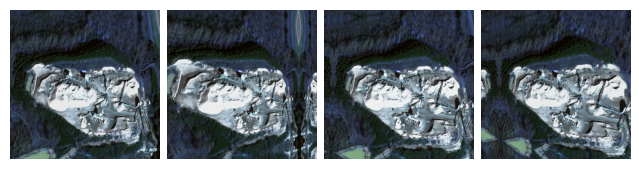
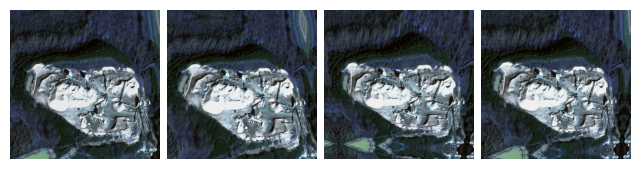
quarto render

diff --git a/docs/demo.html b/docs/demo.html
@@ -184,7 +184,7 @@ pre > code.sourceCode > span > a:first-child::before { text-decoration: underlin
 
 </header>
 
-<p><a href="https://arxiv.org/abs/%3CINDEX%3E"><img src="https://img.shields.io/badge/arXiv-%3CINDEX%3E-%3CCOLOR%3E.svg" class="img-fluid" alt="arXiv"></a> <a href="https://github.com/Andrewwango/perspective-equivariant-imaging"><img src="https://img.shields.io/badge/GitHub-100000?style=for-the-badge&amp;logo=github&amp;logoColor=white.png" class="img-fluid" alt="GitHub"></a> <a href="https://andrewwango.github.io/perspective-equivariant-imaging">Webpage</a> | <a href="./demo.html">Notebook</a></p>
+<p><a href="https://arxiv.org/abs/%3CINDEX%3E"><img src="https://img.shields.io/badge/arXiv-%3CINDEX%3E-%3CCOLOR%3E.svg" class="img-fluid" alt="arXiv"></a> <a href="https://github.com/Andrewwango/perspective-equivariant-imaging"><img src="https://img.shields.io/badge/GitHub-100000?style=for-the-badge&amp;logo=github&amp;logoColor=white.png" class="img-fluid" alt="GitHub"></a> <a href="https://andrewwango.github.io/perspective-equivariant-imaging">Demo webpage</a> | <a href="./demo.html">Demo notebook</a></p>
 <p><strong>Authors</strong>: Andrew Wang, Mike Davies, School of Engineering, University of Edinburgh</p>
 <p><strong>Abstract</strong>: Ill-posed image reconstruction problems appear in many scenarios such as remote sensing, where obtaining high quality images is crucial for environmental monitoring, disaster management and urban planning. Deep learning has seen great success in overcoming the limitations of traditional methods. However, these inverse problems rarely come with ground truth data, highlighting the importance of unsupervised learning from partial and noisy measurements alone. We propose <em>perspective-equivariant imaging</em> (EI), a framework that leverages perspective variability in optical camera-based imaging systems, such as satellites or handheld cameras, to recover information lost in ill-posed optical camera imaging problems. This extends previous EI work to include a much richer non-linear class of group transforms and is shown to be an excellent prior for satellite and urban image data, where perspective-EI achieves state-of-the-art results in multispectral pansharpening, outperforming other unsupervised methods in the literature.</p>
 <p><strong>Citation</strong></p>
@@ -209,7 +209,7 @@ pre > code.sourceCode > span > a:first-child::before { text-decoration: underlin
 <h3 class="anchored" data-anchor-id="multispectral-pansharpening">2.1 Multispectral pansharpening</h3>
 <p>The pansharpening inverse problem seeks to recover high-resolution multispectral (HRMS) images <span class="math inline">\(x\)</span> from low-resolution multispectral (LRMS) <span class="math inline">\(\mathbf{y}_\text{MS}\)</span> and high-resolution panchromatic (single-band) <span class="math inline">\(\mathbf{y}_\text{pan}\)</span> images. The forward operator is:</p>
 <p><span class="math display">\[\left\{\mathbf{y}_\text{MS},\mathbf{y}_\text{PAN}\right\}\sim\mathcal{P}\left(\mathbf{A}_\text{PS}\mathbf{x}\right)=\left\{\mathcal{P}\left(\mathbf{A}_\text{SR}\mathbf{x}\right),\mathcal{P}\left(\mathbf{R}_\text{PAN}\mathbf{x}\right)\right\}\]</span></p>
-<p>where <span class="math inline">\(\mathbf{R}_\text{PAN}\)</span> is the pan channel’s SRF, <span class="math inline">\(\mathbf{A}_\text{SR}\mathbf{x}=(\mathbf{k} * \mathbf{x}) \downarrow_j\)</span> is the <span class="math inline">\(j\times j\)</span>-factor downsampling operator with anti-aliasing kernel <span class="math inline">\(\mathbf{k}\)</span>, and <span class="math inline">\(\mathcal{P}\)</span> is the Poisson noise operator. We simulate a tiny dataset of WorldView-2 tiles taken from <a href="https://spacenet.ai/off-nadir-building-detection/">SpaceNet-4</a>:</p>
+<p>where <span class="math inline">\(\mathbf{R}_\text{PAN}\)</span> is the pan channel’s SRF, <span class="math inline">\(\mathbf{A}_\text{SR}\mathbf{x}=(\mathbf{k} * \mathbf{x}) \downarrow_j\)</span> is the <span class="math inline">\(j\times j\)</span>-factor downsampling operator with anti-aliasing kernel <span class="math inline">\(\mathbf{k}\)</span>, and <span class="math inline">\(\mathcal{P}\)</span> is the Poisson noise operator. We simulate a tiny dataset of WorldView-2 tiles taken from <a href="https://spacenet.ai/off-nadir-building-detection/">SpaceNet-4</a> (see <a href="data/spacenet/vis/">vis</a>):</p>
 <div class="cell" data-execution_count="3">
 <div class="sourceCode cell-code" id="cb3"><pre class="sourceCode python code-with-copy"><code class="sourceCode python"><span id="cb3-1"><a href="#cb3-1" aria-hidden="true" tabindex="-1"></a>dataset_name <span class="op">=</span> <span class="st">"spacenet"</span></span>
 <span id="cb3-2"><a href="#cb3-2" aria-hidden="true" tabindex="-1"></a>noise_gain <span class="op">=</span> <span class="fl">0.</span></span>
@@ -225,9 +225,10 @@ pre > code.sourceCode > span > a:first-child::before { text-decoration: underlin
 <div class="cell" data-execution_count="5">
 <div class="sourceCode cell-code" id="cb5"><pre class="sourceCode python code-with-copy"><code class="sourceCode python"><span id="cb5-1"><a href="#cb5-1" aria-hidden="true" tabindex="-1"></a>train_dataloader, test_dataloader <span class="op">=</span> make_dataloaders(dataset_name, physics, device<span class="op">=</span>device)</span></code><button title="Copy to Clipboard" class="code-copy-button"><i class="bi"></i></button></pre></div>
 </div>
-<div class="cell" data-execution_count="6">
+<div class="cell" data-execution_count="8">
 <div class="sourceCode cell-code" id="cb6"><pre class="sourceCode python code-with-copy"><code class="sourceCode python"><span id="cb6-1"><a href="#cb6-1" aria-hidden="true" tabindex="-1"></a>x, y <span class="op">=</span> <span class="bu">next</span>(<span class="bu">iter</span>(test_dataloader))</span>
-<span id="cb6-2"><a href="#cb6-2" aria-hidden="true" tabindex="-1"></a>plot_multispectral(x, y)</span></code><button title="Copy to Clipboard" class="code-copy-button"><i class="bi"></i></button></pre></div>
+<span id="cb6-2"><a href="#cb6-2" aria-hidden="true" tabindex="-1"></a>x, y <span class="op">=</span> x.to(device), y.to(device)</span>
+<span id="cb6-3"><a href="#cb6-3" aria-hidden="true" tabindex="-1"></a>plot_multispectral(x, y)</span></code><button title="Copy to Clipboard" class="code-copy-button"><i class="bi"></i></button></pre></div>
 <div class="cell-output cell-output-display">
 <p><img src="demo_files/figure-html/cell-7-output-1.png" class="img-fluid"></p>
 </div>
@@ -237,7 +238,7 @@ pre > code.sourceCode > span > a:first-child::before { text-decoration: underlin
 <h3 class="anchored" data-anchor-id="projective-transformations">2.2 Projective transformations</h3>
 <p>Camera-based imaging systems move and rotate freely in the world. In satellite imaging, scenes are generally imaged off-nadir, i.e.&nbsp;the focal line does not pass through the Earth point located vertically below, resulting in a perspective distortion.</p>
 <p>Our proposed perspective-EI uses the natural belief that unknown image sets are invariant to changes in perspective to solve these inverse problems without ground truth (GT), by considering the group of non-linear projective transformations <span class="math inline">\(\mathbf{T}_g\)</span>. Note that we <strong>do not have</strong> access to the GT images <span class="math inline">\(x\)</span>, we just show these for demonstration:</p>
-<div class="cell" data-execution_count="12">
+<div class="cell" data-execution_count="9">
 <div class="sourceCode cell-code" id="cb7"><pre class="sourceCode python code-with-copy"><code class="sourceCode python"><span id="cb7-1"><a href="#cb7-1" aria-hidden="true" tabindex="-1"></a>transform <span class="op">=</span> Homography(</span>
 <span id="cb7-2"><a href="#cb7-2" aria-hidden="true" tabindex="-1"></a>    n_trans <span class="op">=</span> <span class="dv">1</span>, </span>
 <span id="cb7-3"><a href="#cb7-3" aria-hidden="true" tabindex="-1"></a>    theta_max <span class="op">=</span> <span class="dv">5</span>, <span class="co">#degrees </span></span>
@@ -259,11 +260,11 @@ pre > code.sourceCode > span > a:first-child::before { text-decoration: underlin
 <section id="perspective-equivariant-imaging" class="level3">
 <h3 class="anchored" data-anchor-id="perspective-equivariant-imaging">2.3 Perspective-equivariant imaging</h3>
 <p>The EI framework learns to invert from measurements <span class="math inline">\(y\)</span> alone:</p>
-<p><img src="img/diag_EI.jpg" width="30%"></p>
+<p><img src="img/diag_EI.jpg" width="50%"></p>
 <p>Our proposed loss function adds perspective-EI onto a spectral and structural measurement consistency (MC) loss:</p>
 <p><span class="math display">\[\mathcal{L}_\text{unsup}(\theta;\mathbf{y},g)=\lVert\mathbf{A}f_\theta(\mathbf{y})-\mathbf{y}_\text{MS}\rVert_2^2+\lVert \mathbf{R}_\text{pan}f_\theta(\mathbf{y})-\mathbf{y}_\text{pan}\rVert_\text{TV}+\mathcal{L}_\text{EI}(\theta;\mathbf{y},g)\]</span></p>
-<p>In the noisy scenario, both the spectral and structural MC losses are replaced by SURE losses.</p>
-<div class="cell" data-execution_count="23">
+<p>In the noisy scenario, both the spectral and structural MC losses are replaced by SURE losses. We assume a flat <span class="math inline">\(\mathbf{R}_\text{pan}\)</span> that simply averages the channels.</p>
+<div class="cell" data-execution_count="10">
 <div class="sourceCode cell-code" id="cb8"><pre class="sourceCode python code-with-copy"><code class="sourceCode python"><span id="cb8-1"><a href="#cb8-1" aria-hidden="true" tabindex="-1"></a><span class="cf">if</span> noise_gain <span class="op">&gt;</span> <span class="dv">0</span>:</span>
 <span id="cb8-2"><a href="#cb8-2" aria-hidden="true" tabindex="-1"></a>    loss_spectral   <span class="op">=</span> SurePoissonSpectralLoss(gain<span class="op">=</span>noise_gain, tau<span class="op">=</span><span class="fl">1e-2</span>) <span class="co">#tau from (Chen et al. 2022: Robust Equivariant Imaging, Appendix C.3)</span></span>
 <span id="cb8-3"><a href="#cb8-3" aria-hidden="true" tabindex="-1"></a>    loss_structural <span class="op">=</span> SurePoissonStructuralLoss(gain<span class="op">=</span>noise_gain, tau<span class="op">=</span><span class="fl">1e-2</span>, srf_from<span class="op">=</span><span class="st">"average"</span>)</span>
@@ -278,7 +279,7 @@ pre > code.sourceCode > span > a:first-child::before { text-decoration: underlin
 <section id="training" class="level2">
 <h2 class="anchored" data-anchor-id="training">3. Training</h2>
 <p>We train with the <a href="https://ieeexplore.ieee.org/document/8237455">PanNet</a> neural network, but any NN model can be used since our method is independent of the choice of NN. We train our models using <a href="https://deepinv.github.io/">deepinv</a> which is built on PyTorch.</p>
-<div class="cell">
+<div class="cell" data-execution_count="11">
 <div class="sourceCode cell-code" id="cb9"><pre class="sourceCode python code-with-copy"><code class="sourceCode python"><span id="cb9-1"><a href="#cb9-1" aria-hidden="true" tabindex="-1"></a>model <span class="op">=</span> PanNet(</span>
 <span id="cb9-2"><a href="#cb9-2" aria-hidden="true" tabindex="-1"></a>    backbone_net<span class="op">=</span>ResNet(hidden_channels<span class="op">=</span><span class="dv">32</span>, num_blocks<span class="op">=</span><span class="dv">4</span>), </span>
 <span id="cb9-3"><a href="#cb9-3" aria-hidden="true" tabindex="-1"></a>    hrms_shape<span class="op">=</span>img_shape, </span>
@@ -287,11 +288,11 @@ pre > code.sourceCode > span > a:first-child::before { text-decoration: underlin
 <span id="cb9-6"><a href="#cb9-6" aria-hidden="true" tabindex="-1"></a>    device<span class="op">=</span>device,</span>
 <span id="cb9-7"><a href="#cb9-7" aria-hidden="true" tabindex="-1"></a>).to(device)</span></code><button title="Copy to Clipboard" class="code-copy-button"><i class="bi"></i></button></pre></div>
 </div>
-<div class="cell">
+<div class="cell" data-execution_count="18">
 <div class="sourceCode cell-code" id="cb10"><pre class="sourceCode python code-with-copy"><code class="sourceCode python"><span id="cb10-1"><a href="#cb10-1" aria-hidden="true" tabindex="-1"></a>optimizer, scheduler <span class="op">=</span> make_optimizer_scheduler(model, lr_init<span class="op">=</span><span class="fl">1e-3</span>)</span>
 <span id="cb10-2"><a href="#cb10-2" aria-hidden="true" tabindex="-1"></a></span>
 <span id="cb10-3"><a href="#cb10-3" aria-hidden="true" tabindex="-1"></a>model <span class="op">=</span> dinv.train(</span>
-<span id="cb10-4"><a href="#cb10-4" aria-hidden="true" tabindex="-1"></a>    epochs<span class="op">=</span><span class="dv">5</span>,</span>
+<span id="cb10-4"><a href="#cb10-4" aria-hidden="true" tabindex="-1"></a>    epochs<span class="op">=</span><span class="dv">10</span>,</span>
 <span id="cb10-5"><a href="#cb10-5" aria-hidden="true" tabindex="-1"></a>    model<span class="op">=</span>model,</span>
 <span id="cb10-6"><a href="#cb10-6" aria-hidden="true" tabindex="-1"></a>    losses<span class="op">=</span>losses,</span>
 <span id="cb10-7"><a href="#cb10-7" aria-hidden="true" tabindex="-1"></a>    physics<span class="op">=</span>physics,</span>
@@ -305,35 +306,72 @@ pre > code.sourceCode > span > a:first-child::before { text-decoration: underlin
 <span id="cb10-15"><a href="#cb10-15" aria-hidden="true" tabindex="-1"></a>    img_interval<span class="op">=</span><span class="dv">99</span>,</span>
 <span id="cb10-16"><a href="#cb10-16" aria-hidden="true" tabindex="-1"></a>    freq_plot<span class="op">=</span><span class="dv">99</span>,</span>
 <span id="cb10-17"><a href="#cb10-17" aria-hidden="true" tabindex="-1"></a>)</span></code><button title="Copy to Clipboard" class="code-copy-button"><i class="bi"></i></button></pre></div>
+<div class="cell-output cell-output-stdout">
+<pre><code>The model has 77124 trainable parameters</code></pre>
+</div>
+<div class="cell-output cell-output-stderr">
+<pre><code>Epoch 1: 100%|█| 10/10 [00:04&lt;00:00,  2.46it/s, eval_psnr=20.3, loss_mc=0.0103, loss_TVStructural=0.000693, loss_ei=0.00
+Epoch 2: 100%|█| 10/10 [00:03&lt;00:00,  2.55it/s, eval_psnr=19.2, loss_mc=0.00687, loss_TVStructural=0.000447, loss_ei=0.0
+Epoch 3: 100%|█| 10/10 [00:03&lt;00:00,  2.51it/s, eval_psnr=19.5, loss_mc=0.00644, loss_TVStructural=0.000495, loss_ei=0.0
+Epoch 4: 100%|█| 10/10 [00:03&lt;00:00,  2.53it/s, eval_psnr=21.6, loss_mc=0.00677, loss_TVStructural=0.000509, loss_ei=0.0
+Epoch 5: 100%|█| 10/10 [00:03&lt;00:00,  2.53it/s, eval_psnr=21.5, loss_mc=0.00596, loss_TVStructural=0.00043, loss_ei=0.00
+Epoch 6: 100%|█| 10/10 [00:03&lt;00:00,  2.53it/s, eval_psnr=21.2, loss_mc=0.00577, loss_TVStructural=0.000453, loss_ei=0.0
+Epoch 7: 100%|█| 10/10 [00:04&lt;00:00,  2.48it/s, eval_psnr=22.4, loss_mc=0.00519, loss_TVStructural=0.000444, loss_ei=0.0
+Epoch 8: 100%|█| 10/10 [00:04&lt;00:00,  2.50it/s, eval_psnr=22.9, loss_mc=0.00497, loss_TVStructural=0.000475, loss_ei=0.0
+Epoch 9: 100%|█| 10/10 [00:03&lt;00:00,  2.51it/s, eval_psnr=22.2, loss_mc=0.00556, loss_TVStructural=0.000422, loss_ei=0.0
+Epoch 10: 100%|█| 10/10 [00:03&lt;00:00,  2.54it/s, eval_psnr=21.1, loss_mc=0.00503, loss_TVStructural=0.000391, loss_ei=0.</code></pre>
+</div>
 </div>
 <section id="evaluation-metrics" class="level3">
 <h3 class="anchored" data-anchor-id="evaluation-metrics">3.1 Evaluation metrics</h3>
 <p>We report QNR (no reference) ERGAS, and PSNR. See <a href="https://ieeexplore.ieee.org/document/9082183">Meng et al.</a> benchmark for details.</p>
-<div class="cell" data-execution_count="25">
-<div class="sourceCode cell-code" id="cb11"><pre class="sourceCode python code-with-copy"><code class="sourceCode python"><span id="cb11-1"><a href="#cb11-1" aria-hidden="true" tabindex="-1"></a>model.<span class="bu">eval</span>()</span>
-<span id="cb11-2"><a href="#cb11-2" aria-hidden="true" tabindex="-1"></a></span>
-<span id="cb11-3"><a href="#cb11-3" aria-hidden="true" tabindex="-1"></a>x_hat <span class="op">=</span> model(y.to(device), physics).detach().cpu()</span>
-<span id="cb11-4"><a href="#cb11-4" aria-hidden="true" tabindex="-1"></a></span>
-<span id="cb11-5"><a href="#cb11-5" aria-hidden="true" tabindex="-1"></a>qnr <span class="op">=</span> QNR(physics, alpha<span class="op">=</span><span class="fl">1.</span>, beta<span class="op">=</span><span class="fl">1.5</span>)(x_hat, y)</span>
-<span id="cb11-6"><a href="#cb11-6" aria-hidden="true" tabindex="-1"></a><span class="im">from</span> torchmetrics.functional.image <span class="im">import</span> error_relative_global_dimensionless_synthesis</span>
-<span id="cb11-7"><a href="#cb11-7" aria-hidden="true" tabindex="-1"></a>ergas <span class="op">=</span> error_relative_global_dimensionless_synthesis(x_hat, x, ratio<span class="op">=</span><span class="fl">0.25</span>).item()</span>
-<span id="cb11-8"><a href="#cb11-8" aria-hidden="true" tabindex="-1"></a>psnr <span class="op">=</span> dinv.utils.cal_psnr(x_hat, x)</span>
-<span id="cb11-9"><a href="#cb11-9" aria-hidden="true" tabindex="-1"></a></span>
-<span id="cb11-10"><a href="#cb11-10" aria-hidden="true" tabindex="-1"></a><span class="bu">print</span>(<span class="ss">f"QNR: </span><span class="sc">{</span><span class="bu">round</span>(qnr, <span class="dv">3</span>)<span class="sc">}</span><span class="ss">, PSNR: </span><span class="sc">{</span><span class="bu">round</span>(psnr, <span class="dv">2</span>)<span class="sc">}</span><span class="ss">, ERGAS: </span><span class="sc">{</span><span class="bu">round</span>(ergas, <span class="dv">2</span>)<span class="sc">}</span><span class="ss">"</span>)</span></code><button title="Copy to Clipboard" class="code-copy-button"><i class="bi"></i></button></pre></div>
-<div class="cell-output cell-output-stderr">
-<pre><code>c:\Users\s2558406\Documents\Repos\ei-experiments\venv\Lib\site-packages\torchmetrics\utilities\prints.py:70: FutureWarning: Importing `spectral_angle_mapper` from `torchmetrics.functional` was deprecated and will be removed in 2.0. Import `spectral_angle_mapper` from `torchmetrics.image` instead.
-  _future_warning(</code></pre>
-</div>
+<div class="cell" data-execution_count="20">
+<div class="sourceCode cell-code" id="cb13"><pre class="sourceCode python code-with-copy"><code class="sourceCode python"><span id="cb13-1"><a href="#cb13-1" aria-hidden="true" tabindex="-1"></a>model.<span class="bu">eval</span>()</span>
+<span id="cb13-2"><a href="#cb13-2" aria-hidden="true" tabindex="-1"></a></span>
+<span id="cb13-3"><a href="#cb13-3" aria-hidden="true" tabindex="-1"></a>x_hat <span class="op">=</span> model(y.to(device), physics).detach()</span>
+<span id="cb13-4"><a href="#cb13-4" aria-hidden="true" tabindex="-1"></a></span>
+<span id="cb13-5"><a href="#cb13-5" aria-hidden="true" tabindex="-1"></a>qnr <span class="op">=</span> QNR(physics, alpha<span class="op">=</span><span class="fl">1.</span>, beta<span class="op">=</span><span class="fl">1.5</span>)(x_hat, y)</span>
+<span id="cb13-6"><a href="#cb13-6" aria-hidden="true" tabindex="-1"></a><span class="im">from</span> torchmetrics.functional.image <span class="im">import</span> error_relative_global_dimensionless_synthesis</span>
+<span id="cb13-7"><a href="#cb13-7" aria-hidden="true" tabindex="-1"></a>ergas <span class="op">=</span> error_relative_global_dimensionless_synthesis(x_hat, x, ratio<span class="op">=</span><span class="fl">0.25</span>).item()</span>
+<span id="cb13-8"><a href="#cb13-8" aria-hidden="true" tabindex="-1"></a>psnr <span class="op">=</span> dinv.utils.cal_psnr(x_hat, x)</span>
+<span id="cb13-9"><a href="#cb13-9" aria-hidden="true" tabindex="-1"></a></span>
+<span id="cb13-10"><a href="#cb13-10" aria-hidden="true" tabindex="-1"></a><span class="bu">print</span>(<span class="ss">f"QNR: </span><span class="sc">{</span><span class="bu">round</span>(qnr, <span class="dv">3</span>)<span class="sc">}</span><span class="ss">, PSNR: </span><span class="sc">{</span><span class="bu">round</span>(psnr, <span class="dv">2</span>)<span class="sc">}</span><span class="ss">, ERGAS: </span><span class="sc">{</span><span class="bu">round</span>(ergas, <span class="dv">2</span>)<span class="sc">}</span><span class="ss">"</span>)</span></code><button title="Copy to Clipboard" class="code-copy-button"><i class="bi"></i></button></pre></div>
 <div class="cell-output cell-output-stdout">
-<pre><code>QNR: 0.005, PSNR: 6.85, ERGAS: 27.65</code></pre>
+<pre><code>QNR: 0.776, PSNR: 18.65, ERGAS: 8.34</code></pre>
 </div>
 </div>
 </section>
 </section>
 <section id="competitors" class="level2">
 <h2 class="anchored" data-anchor-id="competitors">4. Competitors</h2>
+<p>We compare our pansharpening loss with 4 unsupervised methods from the literature: the losses from <a href="https://arxiv.org/abs/2007.11766">GDD</a>, <a href="https://ieeexplore.ieee.org/document/9136909">SSQ</a>, <a href="https://ieeexplore.ieee.org/document/9745494">Z-PNN</a> and <a href="https://www.sciencedirect.com/science/article/abs/pii/S1566253520302591">PanGan</a>.</p>
+<p>To train with them, simply replace <code>losses</code> with one of the following:</p>
 <div class="cell">
-<div class="sourceCode cell-code" id="cb14"><pre class="sourceCode python code-with-copy"><code class="sourceCode python"><span id="cb14-1"><a href="#cb14-1" aria-hidden="true" tabindex="-1"></a><span class="co"># </span><span class="al">TODO</span><span class="co"> training options for running competitors</span></span></code><button title="Copy to Clipboard" class="code-copy-button"><i class="bi"></i></button></pre></div>
+<div class="sourceCode cell-code" id="cb15"><pre class="sourceCode python code-with-copy"><code class="sourceCode python"><span id="cb15-1"><a href="#cb15-1" aria-hidden="true" tabindex="-1"></a><span class="im">from</span> perspective_ei.multispectral.competitors <span class="im">import</span> <span class="op">*</span></span>
+<span id="cb15-2"><a href="#cb15-2" aria-hidden="true" tabindex="-1"></a></span>
+<span id="cb15-3"><a href="#cb15-3" aria-hidden="true" tabindex="-1"></a>GDD_losses <span class="op">=</span> [</span>
+<span id="cb15-4"><a href="#cb15-4" aria-hidden="true" tabindex="-1"></a>    dinv.loss.MCLoss(metric<span class="op">=</span>LRMS_MSELoss(ratio)), </span>
+<span id="cb15-5"><a href="#cb15-5" aria-hidden="true" tabindex="-1"></a>    TVStructuralLoss(srf_from<span class="op">=</span><span class="st">"average"</span>)</span>
+<span id="cb15-6"><a href="#cb15-6" aria-hidden="true" tabindex="-1"></a>]</span>
+<span id="cb15-7"><a href="#cb15-7" aria-hidden="true" tabindex="-1"></a></span>
+<span id="cb15-8"><a href="#cb15-8" aria-hidden="true" tabindex="-1"></a>SSQ_losses <span class="op">=</span> [</span>
+<span id="cb15-9"><a href="#cb15-9" aria-hidden="true" tabindex="-1"></a>    SSQSpectralLoss(device<span class="op">=</span>device), </span>
+<span id="cb15-10"><a href="#cb15-10" aria-hidden="true" tabindex="-1"></a>    SSQStructuralLoss(srf_from<span class="op">=</span><span class="st">"average"</span>), </span>
+<span id="cb15-11"><a href="#cb15-11" aria-hidden="true" tabindex="-1"></a>    QNRLoss()</span>
+<span id="cb15-12"><a href="#cb15-12" aria-hidden="true" tabindex="-1"></a>]</span>
+<span id="cb15-13"><a href="#cb15-13" aria-hidden="true" tabindex="-1"></a></span>
+<span id="cb15-14"><a href="#cb15-14" aria-hidden="true" tabindex="-1"></a>ZPNN_losses <span class="op">=</span> [</span>
+<span id="cb15-15"><a href="#cb15-15" aria-hidden="true" tabindex="-1"></a>    dinv.loss.MCLoss(metric<span class="op">=</span>LRMS_L1Loss(ratio)), </span>
+<span id="cb15-16"><a href="#cb15-16" aria-hidden="true" tabindex="-1"></a>    ZPNN_CorrelationLoss(device<span class="op">=</span>device)</span>
+<span id="cb15-17"><a href="#cb15-17" aria-hidden="true" tabindex="-1"></a>]</span>
+<span id="cb15-18"><a href="#cb15-18" aria-hidden="true" tabindex="-1"></a></span>
+<span id="cb15-19"><a href="#cb15-19" aria-hidden="true" tabindex="-1"></a>PanGan_losses <span class="op">=</span> [</span>
+<span id="cb15-20"><a href="#cb15-20" aria-hidden="true" tabindex="-1"></a>    dinv.loss.MCLoss(metric<span class="op">=</span>LRMS_MSELoss(ratio)), </span>
+<span id="cb15-21"><a href="#cb15-21" aria-hidden="true" tabindex="-1"></a>    PanganStructuralLoss(srf_from<span class="op">=</span><span class="st">"average"</span>, device<span class="op">=</span>device),</span>
+<span id="cb15-22"><a href="#cb15-22" aria-hidden="true" tabindex="-1"></a>    PanganAdvGenLoss(srf_from<span class="op">=</span><span class="st">"average"</span>, device<span class="op">=</span>device),</span>
+<span id="cb15-23"><a href="#cb15-23" aria-hidden="true" tabindex="-1"></a>    PanganAdvDiscrimSpectralLoss(device<span class="op">=</span>device),</span>
+<span id="cb15-24"><a href="#cb15-24" aria-hidden="true" tabindex="-1"></a>    PanganAdvDiscrimStructuralLoss(srf_from<span class="op">=</span><span class="st">"average"</span>, device<span class="op">=</span>device)</span>
+<span id="cb15-25"><a href="#cb15-25" aria-hidden="true" tabindex="-1"></a>] <span class="co"># see perspective_ei.multispectral.competitors.pangan for training details</span></span></code><button title="Copy to Clipboard" class="code-copy-button"><i class="bi"></i></button></pre></div>
 </div>
 
 
